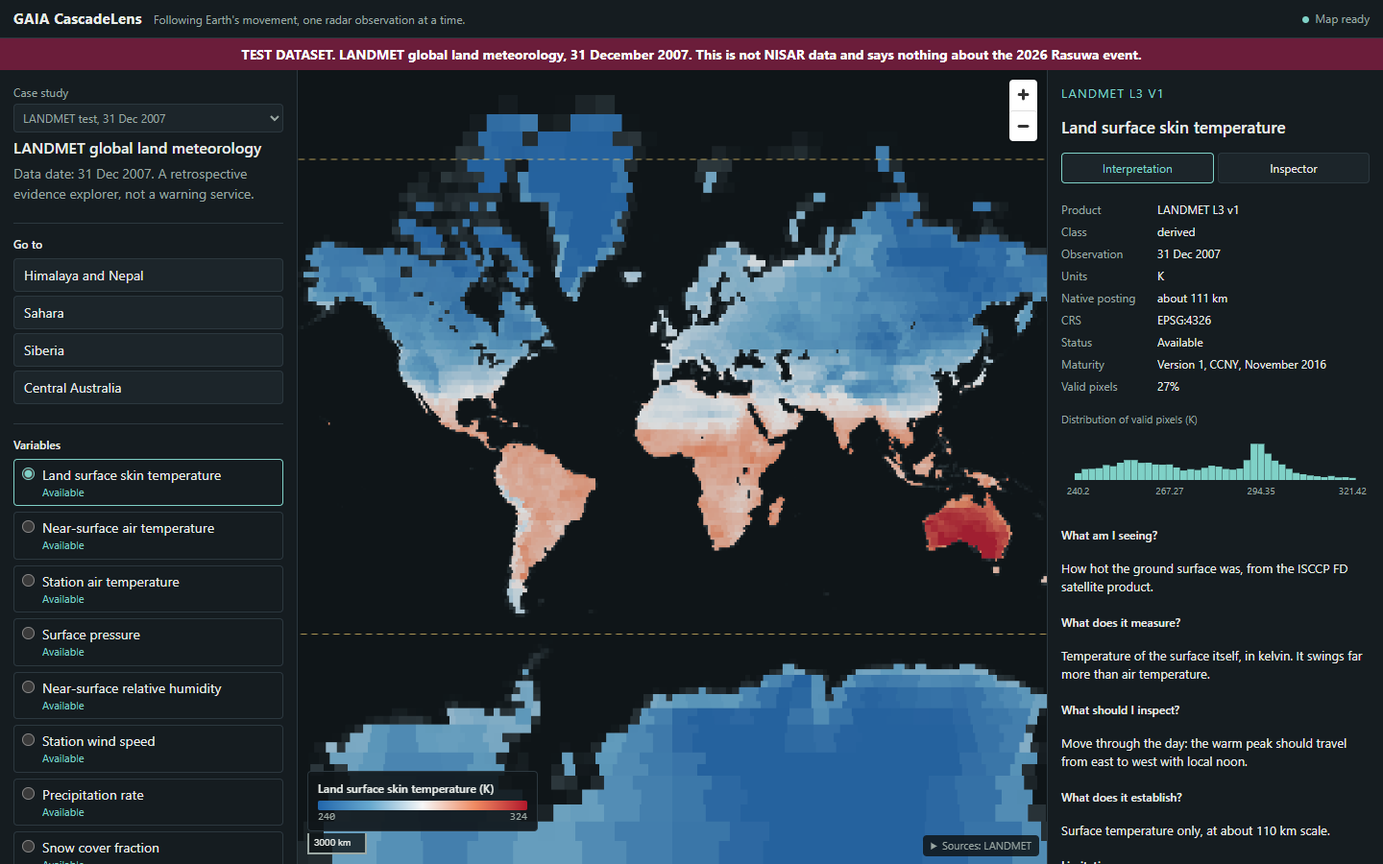
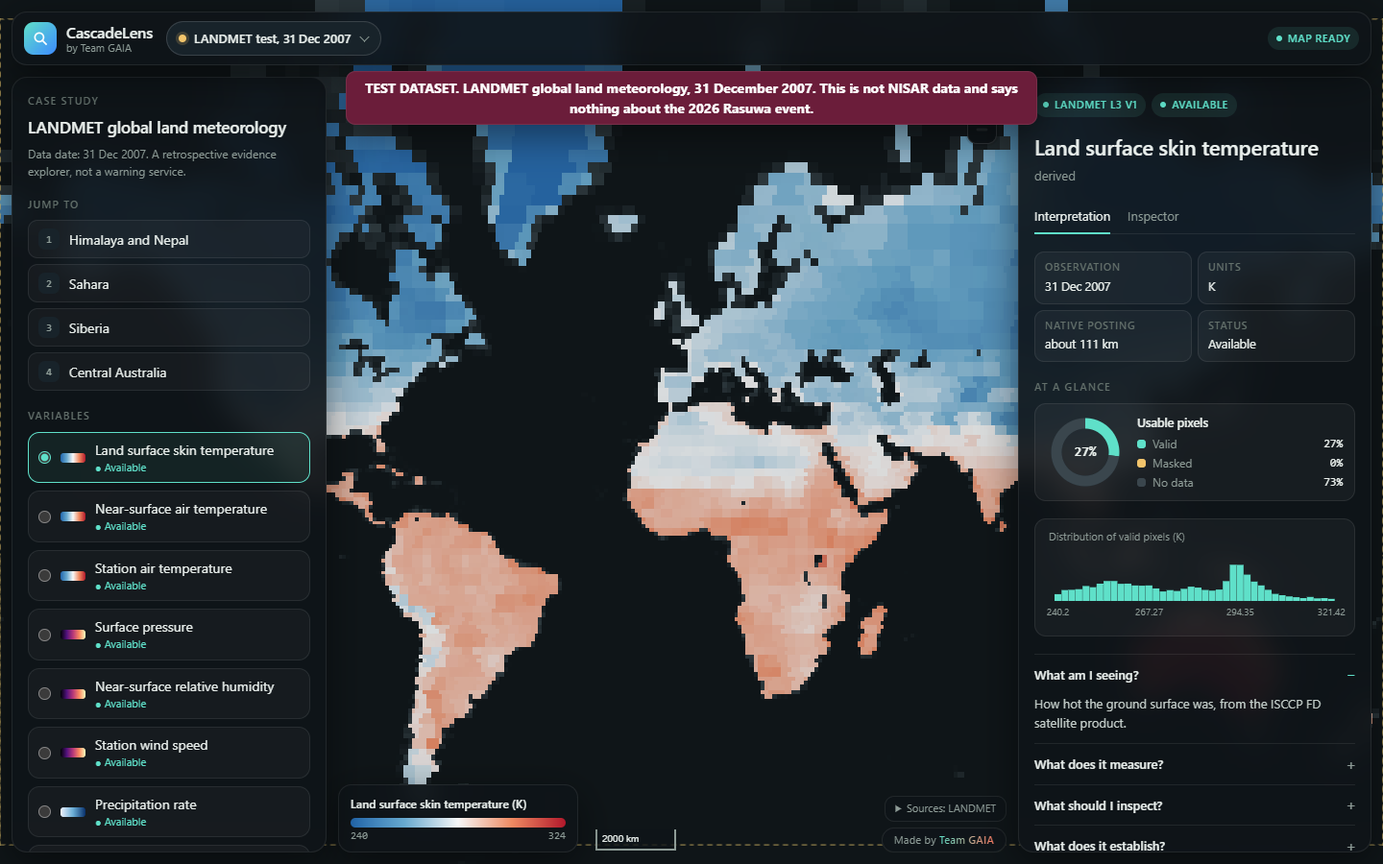
Speed up the app and fix problems left by the redesign
Stop the page redrawing for every map tile, load the map, charts and
raster reader separately, keep connections open and cache in the launcher.
Keep map-source failures on screen, frame story places above the phone
sheet, and bring the browser tests in line with the new layout.

diff --git a/frontend/src/styles/app.css b/frontend/src/styles/app.css
@@ -1,7 +1,6 @@
 /* CascadeLens look: full-screen map, floating glass panels. Teal = ready/selected, coral = contrast, amber = provisional/limits. */
 :root {
   --night: #0a0f12;
-  --ink: #0a0f12;
   --panel: rgba(14, 20, 24, .9);
   --panel-solid: #0e1418;
   --raised: #18232a;
@@ -14,7 +13,6 @@
   --accent-ink: #062c26;
   --coral: #ff7f66;
   --amber: #f2c46b;
-  --warn: #f2c46b;
   --bad: #e5484d;
   --grey: #3a464d;
   --radius: 16px;
@@ -27,6 +25,7 @@
 
 * { box-sizing: border-box; }
 html, body, #root { height: 100%; margin: 0; }
+html { -webkit-text-size-adjust: 100%; text-size-adjust: 100%; } /* Stops iPhones enlarging text when turned sideways */
 body { background: var(--night); color: var(--text); font: 14px/1.5 var(--sans); overflow: hidden; -webkit-font-smoothing: antialiased; }
 h1, h2, h3, h4, p, ul, ol, dl, figure { margin: 0; }
 button, input, select { font: inherit; color: inherit; }
@@ -38,7 +37,6 @@ button.primary { background: var(--accent); border-color: var(--accent); color: 
 button.primary:hover:not(:disabled) { background: #7eeedb; }
 button.ghost { background: none; border-color: transparent; color: var(--muted); }
 button.link { background: none; border: 0; color: var(--accent); padding: 0; min-height: 0; text-decoration: underline; text-underline-offset: 2px; }
-button.wide { width: 100%; margin-top: 10px; }
 :focus-visible { outline: 2px solid var(--coral); outline-offset: 2px; }
 .sr-only { position: absolute; width: 1px; height: 1px; overflow: hidden; clip: rect(0 0 0 0); white-space: nowrap; }
 
@@ -229,12 +227,11 @@ pre { font: 10.5px/1.4 var(--mono); white-space: pre-wrap; color: var(--muted); 
 
 /* Guided story: a card docked at the bottom of the map. */
 .story-on .right { display: none; }
-.story-on .legend, .story-on .map-foot { bottom: 12px; }
 .story-on .legend { display: none; }
 .story-dock { position: absolute; z-index: 4; left: 352px; right: 250px; bottom: 12px; display: flex; justify-content: center; pointer-events: none; }
 .story-on .map-foot { right: 12px; max-width: 226px; }
 .story-on .maplibregl-ctrl-top-right { right: 12px !important; }
-.story { pointer-events: auto; width: min(760px, 100%); max-height: calc(100vh - 160px); overflow-y: auto; border-radius: 20px; padding: 18px 22px 16px; display: flex; flex-direction: column; gap: 12px; border-color: rgba(255, 127, 102, .25); }
+.story { pointer-events: auto; width: min(760px, 100%); max-height: calc(100dvh - 160px); overflow-y: auto; border-radius: 20px; padding: 18px 22px 16px; display: flex; flex-direction: column; gap: 12px; border-color: rgba(255, 127, 102, .25); }
 .progress { list-style: none; padding: 0; display: grid; grid-auto-flow: column; grid-auto-columns: 1fr; gap: 6px; }
 .progress-step { width: 100%; background: none; border: 0; padding: 0; min-height: 0; text-align: left; display: flex; flex-direction: column; gap: 6px; font-size: 11px; color: var(--label); border-radius: 4px; }
 .progress-step i { height: 4px; border-radius: 2px; background: var(--grey); }
@@ -281,7 +278,8 @@ pre { font: 10.5px/1.4 var(--mono); white-space: pre-wrap; color: var(--muted); 
   .case-pill, .modes, .badge.amber, .brand-text span { display: none; }
   .mobile-only { display: inline-block; white-space: nowrap; min-height: 38px; }
   .map-state { font-size: 0; padding: 6px; gap: 0; }
-  .left, .right { display: none; z-index: 6; top: auto; left: 0; right: 0; bottom: 0; width: auto; max-height: 62vh; border-radius: 20px 20px 0 0; }
+  /* dvh follows the browser's own bars on phones, so the sheets are not cut off. */
+  .left, .right { display: none; z-index: 6; top: auto; left: 0; right: 0; bottom: 0; width: auto; max-height: 62dvh; border-radius: 20px 20px 0 0; }
   .show-left .left, .show-right .right { display: block; }
   .sheet-handle { display: block; width: 40px; height: 4px; border-radius: 2px; background: var(--grey); margin: 8px auto 0; }
   .legend { left: 8px; bottom: 44px; width: 200px; }
@@ -292,16 +290,14 @@ pre { font: 10.5px/1.4 var(--mono); white-space: pre-wrap; color: var(--muted); 
   .maplibregl-ctrl-top-right { top: 108px !important; right: 0 !important; }
   .maplibregl-ctrl-bottom-left { left: 0 !important; bottom: 34px !important; }
   .story-dock { left: 0; right: 0; bottom: 0; }
-  .story { width: 100%; max-height: 64vh; border-radius: 20px 20px 0 0; padding: 14px 16px; }
+  .story { width: 100%; max-height: 64dvh; border-radius: 20px 20px 0 0; padding: 14px 16px; }
   .story h2 { font-size: 20px; }
   .story p { font-size: 13px; }
   .story-body.with-chart { grid-template-columns: 1fr; gap: 12px; }
-  .progress-step { font-size: 0; }
+  .progress-step { font-size: 0; padding: 14px 0; margin: -14px 0; } /* A bigger area to tap, with the bar drawn the same */
   .progress { position: sticky; top: -14px; margin: -14px -16px 0; padding: 14px 16px 8px; background: var(--panel-solid); z-index: 1; }
   .story footer { position: sticky; bottom: -14px; margin: 0 -16px -14px; padding: 10px 16px 14px; background: var(--panel-solid); }
-  .story-on .map-foot { bottom: auto; top: 66px; }
+  .story-on .map-foot { bottom: auto; top: 66px; max-width: 55%; }
   .story-on .maplibregl-ctrl-top-right { display: none; }
-  .story-on .place-chip { top: 70px; }
-  .story-on .map-foot { max-width: 55%; }
   .option, .check { min-height: 40px; }
 }

diff --git a/frontend/src/components/map/MapView.tsx b/frontend/src/components/map/MapView.tsx
@@ -1,7 +1,6 @@
 import { useEffect, useRef, useState } from 'react'
 import { Map as MlMap, Marker, NavigationControl, ScaleControl, setWorkerUrl, type GeoJSONSource, type LngLatBoundsLike, type StyleSpecification } from 'maplibre-gl'
 import workerUrl from 'maplibre-gl/dist/maplibre-gl-worker.mjs?url'
-import 'maplibre-gl/dist/maplibre-gl.css'
 import type { Bounds, GranuleRecord, Layer } from '../../types/manifest'
 import { assetUrl } from '../../services/manifest'
 
@@ -96,6 +95,14 @@ export function MapView({ envelope, terrain, showTerrain, active, overlay, showM
   useEffect(() => {
     if (!host.current) return
     const envelope = envelopeRef.current
+    // MapLibre fires these for every tile. Passing on only real changes stops the whole page redrawing each time.
+    let last: MapStatus | undefined
+    const report = (s: MapStatus) => {
+      if (s.state === last?.state && s.message === last?.message) return
+      if (s.state === 'ready' && last?.state === 'error') return // A failed layer must keep its warning: idle only means loading stopped
+      last = s
+      onStatusRef.current(s)
+    }
     const map = new MlMap({ container: host.current, style: STYLE, bounds: envelope as LngLatBoundsLike, fitBoundsOptions: { padding: 30 }, attributionControl: false, dragRotate: false, pitchWithRotate: false, renderWorldCopies: false })
     mapRef.current = map
     map.addControl(new NavigationControl({ showCompass: false }), 'top-right')
@@ -107,16 +114,16 @@ export function MapView({ envelope, terrain, showTerrain, active, overlay, showM
       map.addSource('footprints', { type: 'geojson', data: empty })
       map.addLayer({ id: 'footprints', type: 'line', source: 'footprints', paint: { 'line-color': '#7fd1c7', 'line-width': 1.5, 'line-opacity': 0.85 } })
       setReady(true)
-      onStatusRef.current({ state: 'ready' })
+      report({ state: 'ready' })
     })
     map.on('click', (e) => onPointRef.current([e.lngLat.lng, e.lngLat.lat]))
-    map.on('dataloading', () => onStatusRef.current({ state: 'loading' }))
-    map.on('idle', () => onStatusRef.current({ state: 'ready' }))
+    map.on('dataloading', () => report({ state: 'loading' }))
+    map.on('idle', () => report({ state: 'ready' }))
     map.on('error', (e) => {
       const err = e.error as Error & { status?: number }
       if (err?.status === 404) return // Sparse pyramids skip empty tiles
       const source = (e as unknown as { sourceId?: string }).sourceId
-      onStatusRef.current({ state: 'error', message: source ? `Could not load map source ${source}. ${err?.message ?? ''}` : (err?.message ?? 'Map error') })
+      report({ state: 'error', message: source ? `Could not load map source ${source}. ${err?.message ?? ''}` : (err?.message ?? 'Map error') })
     })
     if (import.meta.env.DEV) (window as unknown as { __clMap: MlMap }).__clMap = map
     return () => { map.remove(); mapRef.current = null; setReady(false) }
@@ -174,11 +181,12 @@ export function MapView({ envelope, terrain, showTerrain, active, overlay, showM
     for (const r of references) if (!map.getLayer(`ref-${r.id}`)) addReference(map, r)
     if (map.getLayer('footprints')) map.moveLayer('footprints')
     if (map.getLayer('study-envelope')) map.moveLayer('study-envelope')
+  }, [ready, references])
 
-    labels.current.forEach((m) => m.remove())
-    labels.current = []
-    const places = references.find((r) => r.vector?.type === 'label')
-    if (!places) return
+  const places = references.find((r) => r.vector?.type === 'label')
+  useEffect(() => {
+    const map = mapRef.current
+    if (!ready || !map || !places) return
     let stale = false
     fetch(assetUrl(places.vector!.url))
       .then((r) => { if (!r.ok) throw new Error(`HTTP ${r.status}`); return r.json() })
@@ -192,8 +200,12 @@ export function MapView({ envelope, terrain, showTerrain, active, overlay, showM
         })
       })
       .catch((e) => onStatusRef.current({ state: 'error', message: `Reference layer unavailable: ${places.name}. ${e.message}` }))
-    return () => { stale = true }
-  }, [ready, references])
+    return () => {
+      stale = true
+      labels.current.forEach((m) => m.remove())
+      labels.current = []
+    }
+  }, [ready, places])
 
   useEffect(() => {
     const src = mapRef.current?.getSource('footprints') as GeoJSONSource | undefined
@@ -216,7 +228,7 @@ export function MapView({ envelope, terrain, showTerrain, active, overlay, showM
     if (!focus || !ready) return
     const calm = window.matchMedia('(prefers-reduced-motion: reduce)').matches
     // On a phone the story is a bottom sheet over the map, so frame the bookmark in the part still visible.
-    const sheet = document.querySelector('.story-on .right')?.getBoundingClientRect()
+    const sheet = window.matchMedia('(max-width: 980px)').matches ? document.querySelector('.story')?.getBoundingClientRect() : undefined
     const covered = sheet && sheet.top > 100 ? window.innerHeight - sheet.top : 0
     mapRef.current?.fitBounds(focus.bounds as LngLatBoundsLike, { padding: { top: 40, left: 40, right: 40, bottom: 40 + covered }, duration: calm ? 0 : 900 })
   }, [focus, ready])

diff --git a/frontend/src/app/App.tsx b/frontend/src/app/App.tsx
@@ -1,9 +1,9 @@
-import { Component, useCallback, useEffect, useMemo, useState, type ReactNode } from 'react'
+import { Component, lazy, Suspense, useCallback, useEffect, useMemo, useState, type ReactNode } from 'react'
 import type { Bookmark, Manifest } from '../types/manifest'
 import { CASES, currentCase, isUsable, loadManifest, STATUS_LABEL } from '../services/manifest'
 import { buildStory } from '../data/story'
 import { LeftPanel, type EvidenceView } from '../components/layout/LeftPanel'
-import { MapView, type MapStatus } from '../components/map/MapView'
+import type { MapStatus } from '../components/map/MapView'
 import { Legend } from '../components/legends/Legend'
 import { Credits } from '../components/legends/Credits'
 import { Inspector } from '../components/inspector/Inspector'
@@ -11,6 +11,10 @@ import { Interpretation } from '../components/explanations/Interpretation'
 import { StoryPanel } from '../components/story/StoryPanel'
 
 const TERRAIN = 'context:terrain'
+
+// The map library is most of the app's code. Starting its download here lets the panels appear without waiting for it.
+const mapCode = import('../components/map/MapView')
+const MapView = lazy(() => mapCode.then((m) => ({ default: m.MapView })))
 
 // WebGL can be unavailable or lost. The panels stay readable if the map cannot run.
 class MapBoundary extends Component<{ children: ReactNode }, { error: string | null }> {
@@ -149,8 +153,10 @@ function Explorer({ manifest: m }: { manifest: Manifest }) {
 
       <main className="center">
         <MapBoundary>
-          <MapView envelope={m.caseStudy.searchEnvelope} terrain={terrain} showTerrain={showTerrain} active={shownLayer} overlay={overlay} showMask={showMask} opacity={opacity} references={references}
-            footprints={footprints} point={point} focus={focus} onPoint={(p) => { setPoint(p); setTab('inspect'); setAboutId(null) }} onStatus={setMapStatus} onCoverage={setCovered} />
+          <Suspense fallback={null}>
+            <MapView envelope={m.caseStudy.searchEnvelope} terrain={terrain} showTerrain={showTerrain} active={shownLayer} overlay={overlay} showMask={showMask} opacity={opacity} references={references}
+              footprints={footprints} point={point} focus={focus} onPoint={(p) => { setPoint(p); setTab('inspect'); setAboutId(null) }} onStatus={setMapStatus} onCoverage={setCovered} />
+          </Suspense>
         </MapBoundary>
         {bookmark && <p className="place-chip">{bookmark.name}</p>}
         {mapStatus.state === 'error' && <p className="map-alert" role="alert">{mapStatus.message}</p>}

diff --git a/frontend/src/components/inspector/Inspector.tsx b/frontend/src/components/inspector/Inspector.tsx
@@ -1,8 +1,9 @@
-import { useEffect, useState } from 'react'
-import { CartesianGrid, Line, LineChart, ResponsiveContainer, Tooltip, XAxis, YAxis } from 'recharts'
+import { lazy, memo, Suspense, useEffect, useState } from 'react'
 import type { Bookmark, Layer } from '../../types/manifest'
 import { acquisitionLabel, coordinates, isUsable, posting, STATUS_LABEL, unitLabel } from '../../services/manifest'
 import { samplePoint, type SampleResult } from '../../services/sampler'
+
+const DayLineChart = lazy(() => import('../charts/LibraryCharts').then((m) => ({ default: m.DayLineChart })))
 
 interface Sample { layer: Layer; result: SampleResult }
 
@@ -50,20 +51,12 @@ function DayChart({ layer, point }: { layer: Layer; point: [number, number] }) {
   return (
     <figure className="histogram day-chart">
       <figcaption>This location through the day (UTC){layer.units && layer.units !== '1' ? `, ${layer.units}` : ''}</figcaption>
-      <ResponsiveContainer width="100%" height={110}>
-        <LineChart data={data} margin={{ top: 6, right: 8, bottom: 0, left: -18 }}>
-          <CartesianGrid stroke="#2c383f" vertical={false} />
-          <XAxis dataKey="time" tick={{ fontSize: 10, fill: '#9ba8a3' }} tickLine={false} axisLine={false} />
-          <YAxis domain={['auto', 'auto']} tick={{ fontSize: 10, fill: '#9ba8a3' }} tickLine={false} axisLine={false} width={46} />
-          <Tooltip contentStyle={{ background: '#182025', border: '1px solid #33404a', fontSize: 12 }} formatter={(v) => [Number(v).toFixed(2), layer.name]} labelFormatter={(v) => `${v}:00 UTC`} />
-          <Line type="monotone" dataKey="value" stroke="#7fd1c7" strokeWidth={2} dot={{ r: 2 }} connectNulls={false} isAnimationActive={false} />
-        </LineChart>
-      </ResponsiveContainer>
+      <Suspense fallback={<div style={{ height: 110 }} />}><DayLineChart data={data} name={layer.name} /></Suspense>
     </figure>
   )
 }
 
-export function Inspector({ layer, layers, point, bookmarks }: { layer: Layer | undefined; layers: Layer[]; point: [number, number] | null; bookmarks: Bookmark[] }) {
+export const Inspector = memo(function Inspector({ layer, layers, point, bookmarks }: { layer: Layer | undefined; layers: Layer[]; point: [number, number] | null; bookmarks: Bookmark[] }) {
   const [main, setMain] = useState<SampleResult | null>(null)
   const [quality, setQuality] = useState<Sample[]>([])
   const [busy, setBusy] = useState(false)
@@ -116,4 +109,4 @@ export function Inspector({ layer, layers, point, bookmarks }: { layer: Layer | 
       )}
     </div>
   )
-}
+})

diff --git a/frontend/src/components/explanations/Interpretation.tsx b/frontend/src/components/explanations/Interpretation.tsx
@@ -1,8 +1,10 @@
-import { Bar, BarChart, ResponsiveContainer, Tooltip, XAxis } from 'recharts'
+import { lazy, memo, Suspense } from 'react'
 import type { Layer } from '../../types/manifest'
 import { acquisitionLabel, isUsable, posting, STATUS_LABEL, unitLabel } from '../../services/manifest'
 import { explanationFor } from '../../data/explanations'
 import { Donut } from '../charts/Charts'
+
+const HistogramChart = lazy(() => import('../charts/LibraryCharts').then((m) => ({ default: m.HistogramChart })))
 
 function Histogram({ layer }: { layer: Layer }) {
   const h = layer.stats?.histogram
@@ -12,13 +14,7 @@ function Histogram({ layer }: { layer: Layer }) {
   return (
     <figure className="histogram card">
       <figcaption>Distribution of valid pixels{unit ? ` (${unit})` : ''}</figcaption>
-      <ResponsiveContainer width="100%" height={84}>
-        <BarChart data={data} margin={{ top: 4, right: 14, bottom: 0, left: 14 }} barCategoryGap={0}>
-          <XAxis dataKey="value" tick={{ fontSize: 10, fill: '#8e9c97' }} tickLine={false} axisLine={false} interval={12} />
-          <Tooltip cursor={{ fill: 'rgba(255,255,255,.06)' }} contentStyle={{ background: '#18232a', border: '1px solid rgba(255,255,255,.12)', borderRadius: 8, fontSize: 12 }} formatter={(v) => [Number(v).toLocaleString(), 'pixels']} labelFormatter={(v) => `from ${v}`} />
-          <Bar dataKey="count" fill="#5fe0c9" isAnimationActive={false} />
-        </BarChart>
-      </ResponsiveContainer>
+      <Suspense fallback={<div style={{ height: 84 }} />}><HistogramChart data={data} /></Suspense>
     </figure>
   )
 }
@@ -57,7 +53,7 @@ function Question({ q, a, open }: { q: string; a: string; open?: boolean }) {
   return <details className="question" open={open}><summary><h3>{q}</h3></summary><p>{a}</p></details>
 }
 
-export function Interpretation({ layer, layers }: { layer: Layer; layers: Layer[] }) {
+export const Interpretation = memo(function Interpretation({ layer, layers }: { layer: Layer; layers: Layer[] }) {
   const e = explanationFor(layer)
   const unit = layer.unitsNote ?? unitLabel(layer.units)
   const tiles: [string, string][] = [
@@ -105,4 +101,4 @@ export function Interpretation({ layer, layers }: { layer: Layer; layers: Layer[
       </section>
     </>
   )
-}
+})

diff --git a/frontend/src/components/charts/LibraryCharts.tsx b/frontend/src/components/charts/LibraryCharts.tsx
@@ -1,0 +1,29 @@
+import { Bar, BarChart, CartesianGrid, Line, LineChart, ResponsiveContainer, Tooltip, XAxis, YAxis } from 'recharts'
+
+// The only two charts that need the chart library. They load on their own, so the library never delays the first screen.
+
+export function HistogramChart({ data }: { data: { value: number; count: number }[] }) {
+  return (
+    <ResponsiveContainer width="100%" height={84}>
+      <BarChart data={data} margin={{ top: 4, right: 14, bottom: 0, left: 14 }} barCategoryGap={0}>
+        <XAxis dataKey="value" tick={{ fontSize: 10, fill: '#8e9c97' }} tickLine={false} axisLine={false} interval={12} />
+        <Tooltip cursor={{ fill: 'rgba(255,255,255,.06)' }} contentStyle={{ background: '#18232a', border: '1px solid rgba(255,255,255,.12)', borderRadius: 8, fontSize: 12 }} formatter={(v) => [Number(v).toLocaleString(), 'pixels']} labelFormatter={(v) => `from ${v}`} />
+        <Bar dataKey="count" fill="#5fe0c9" isAnimationActive={false} />
+      </BarChart>
+    </ResponsiveContainer>
+  )
+}
+
+export function DayLineChart({ data, name }: { data: { time: string; value: number | null }[]; name: string }) {
+  return (
+    <ResponsiveContainer width="100%" height={110}>
+      <LineChart data={data} margin={{ top: 6, right: 8, bottom: 0, left: -18 }}>
+        <CartesianGrid stroke="#2c383f" vertical={false} />
+        <XAxis dataKey="time" tick={{ fontSize: 10, fill: '#9ba8a3' }} tickLine={false} axisLine={false} />
+        <YAxis domain={['auto', 'auto']} tick={{ fontSize: 10, fill: '#9ba8a3' }} tickLine={false} axisLine={false} width={46} />
+        <Tooltip contentStyle={{ background: '#182025', border: '1px solid #33404a', fontSize: 12 }} formatter={(v) => [Number(v).toFixed(2), name]} labelFormatter={(v) => `${v}:00 UTC`} />
+        <Line type="monotone" dataKey="value" stroke="#7fd1c7" strokeWidth={2} dot={{ r: 2 }} connectNulls={false} isAnimationActive={false} />
+      </LineChart>
+    </ResponsiveContainer>
+  )
+}

diff --git a/frontend/src/services/sampler.ts b/frontend/src/services/sampler.ts
@@ -1,4 +1,4 @@
-import { fromUrl, type GeoTIFF, type GeoTIFFImage } from 'geotiff'
+import type { GeoTIFF, GeoTIFFImage } from 'geotiff'
 import proj4 from 'proj4'
 import type { Layer, RasterSource } from '../types/manifest'
 import { assetUrl, isUsable } from './manifest'
@@ -30,7 +30,7 @@ const VALID = 1
 const MASKED = 2
 
 export type Opener = (path: string) => Promise<GeoTIFF>
-const openRemote: Opener = (path) => fromUrl(assetUrl(path))
+const openRemote: Opener = async (path) => (await import('geotiff')).fromUrl(assetUrl(path)) // Loaded on the first click, not at startup
 
 interface OpenRaster { image: GeoTIFFImage; toRaster: (lng: number, lat: number) => [number, number] }
 
@@ -84,8 +84,7 @@ async function sampleSource(s: RasterSource, lng: number, lat: number, opener: O
   const { col, row } = pixelIndex(raster.image, x, y)
   if (col < 0 || row < 0 || col >= raster.image.getWidth() || row >= raster.image.getHeight())
     return { state: 'outside', message: MESSAGE.outside }
-  const value = await pixel(raster, row, col)
-  const validity = await pixel(await open(s.validity!, opener), row, col)
+  const [value, validity] = await Promise.all([pixel(raster, row, col), open(s.validity!, opener).then((v) => pixel(v, row, col))])
   const state = classify(value, validity)
   const stored = state === 'nodata' ? undefined : value
   return { state, value: stored, frame: s.frame, granule: s.granule, row, col, message: MESSAGE[state] }

diff --git a/frontend/e2e/real.spec.ts b/frontend/e2e/real.spec.ts
@@ -44,7 +44,7 @@ test('opens on Rasuwa with real NISAR measurements', async ({ page }) => {
   await expect(page.locator('.fixture-banner')).toHaveCount(0)
   await expect.poll(() => tiles.length).toBeGreaterThan(3)
   expect(tiles.filter((s) => s !== '200' && s !== '404')).toEqual([])
-  await expect(page.locator('.facts')).toContainText('Provisional (P05023)')
+  await expect(page.locator('.source')).toContainText('Provisional (P05023)')
   await expect(page.locator('.legend-title').first()).toContainText('relative to frame median')
   await page.waitForTimeout(600)
   await page.screenshot({ path: `${SHOTS}/overview.png` })
@@ -225,11 +225,9 @@ test.describe('phone', () => {
     await open(page)
     await expect(page.locator('.left')).toBeHidden()
     expect(await page.evaluate(() => document.documentElement.scrollWidth <= innerWidth)).toBe(true)
-    const pair = page.getByRole('button', { name: '16–28 August 2026' })
-    await pair.click()
+    await page.getByRole('button', { name: 'Layers' }).click()
     await expect(page.locator('.left')).toBeVisible()
     await page.getByRole('button', { name: 'Start the guided story' }).click()
-    await pair.click()
     await expect(page.locator('.left')).toBeHidden()
     await expect(page.locator('.story')).toBeVisible()
     await expect(page.locator('.story')).toContainText('The source')

diff --git a/frontend/src/components/charts/Charts.tsx b/frontend/src/components/charts/Charts.tsx
@@ -13,7 +13,7 @@ export function Donut({ title, slices, centre, note }: { title: string; slices: 
         <circle cx="40" cy="40" r={r} fill="none" stroke="var(--raised)" strokeWidth="11" />
         {slices.filter((s) => s.value > 0).map((s) => {
           const len = (s.value / total) * c
-          const el = <circle key={s.label} cx="40" cy="40" r={r} fill="none" stroke={s.color} strokeWidth="11" strokeDasharray={`${len} ${c - len}`} strokeDashoffset={-offset} transform="rotate(-90 40 40)" />
+          const el = <circle key={s.label} cx="40" cy="40" r={r} fill="none" stroke={s.color} strokeWidth="11" strokeDasharray={`${len} ${c - len}`} strokeDashoffset={c - offset} transform="rotate(-90 40 40)" />
           offset += len
           return el
         })}

diff --git a/frontend/src/components/story/StoryPanel.tsx b/frontend/src/components/story/StoryPanel.tsx
@@ -51,7 +51,7 @@ export function StoryPanel({ steps, index, manifest, onGo, onExit }: Props) {
         <span className="grow" />
         <button onClick={() => onGo(index - 1)} disabled={index === 0}>Back</button>
         {last ? <button className="primary" onClick={onExit}>Explore the map</button>
-          : <button className="primary" aria-label="Next" onClick={() => onGo(index + 1)}>Next: {steps[index + 1].title.replace(/^The /, 'the ')} →</button>}
+          : <button className="primary" onClick={() => onGo(index + 1)}>Next: {steps[index + 1].title.replace(/^The /, 'the ')} →</button>}
       </footer>
     </section>
   )

diff --git a/frontend/src/app/App.test.tsx b/frontend/src/app/App.test.tsx
@@ -142,7 +142,7 @@ describe('story', () => {
     fireEvent.click(await screen.findByRole('button', { name: 'Start the guided story' }))
     for (const title of ['1. The source', '2. The radar evidence', '3. The downstream corridor']) {
       expect(screen.getByRole('heading', { name: title })).toBeTruthy()
-      fireEvent.click(screen.getByRole('button', { name: 'Next' }))
+      fireEvent.click(screen.getByRole('button', { name: /^Next/ }))
     }
     expect(screen.getByRole('heading', { name: '4. Scientific interpretation' })).toBeTruthy()
     fireEvent.click(screen.getByRole('button', { name: 'Explore the map' }))

diff --git a/frontend/e2e/fixture.spec.ts b/frontend/e2e/fixture.spec.ts
@@ -28,7 +28,7 @@ test('renders real tiles for the selected measurement', async ({ page }) => {
   await expect(page.locator('.legend-title').first()).toContainText('Unwrapped phase (radians')
   expect(await rasters(page)).toEqual(['active-0'])
   const tile = page.waitForResponse((r) => r.url().includes('/tiles/pair-a/gunw-phase/') && r.status() === 200)
-  await page.getByRole('button', { name: 'Bhote Koshi corridor' }).click()
+  await page.reload() // The full-screen map fetches its tiles while opening, so a bookmark may need no new ones
   await tile
 })
 
